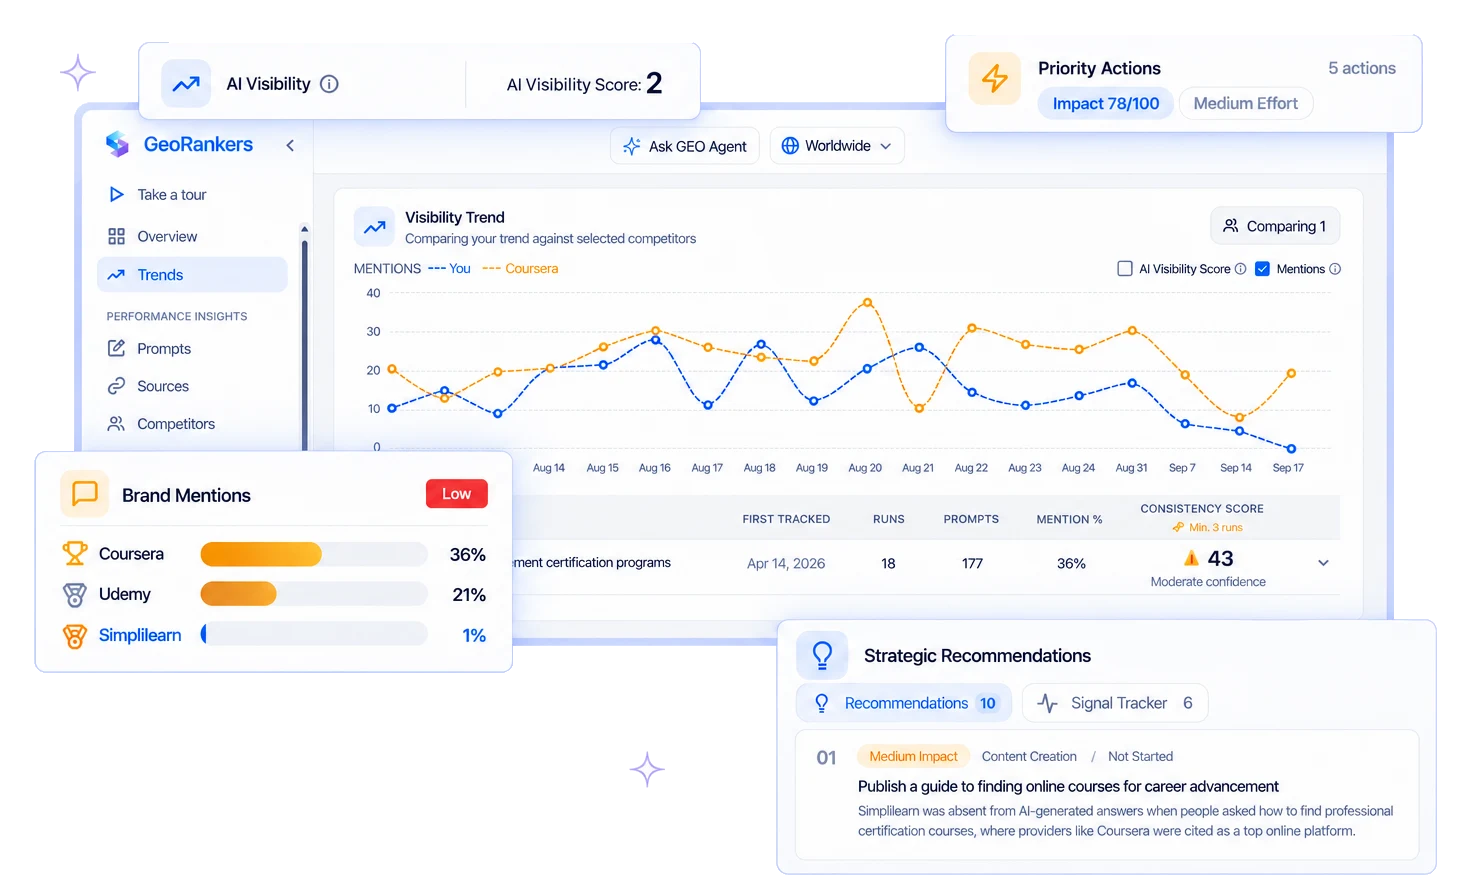
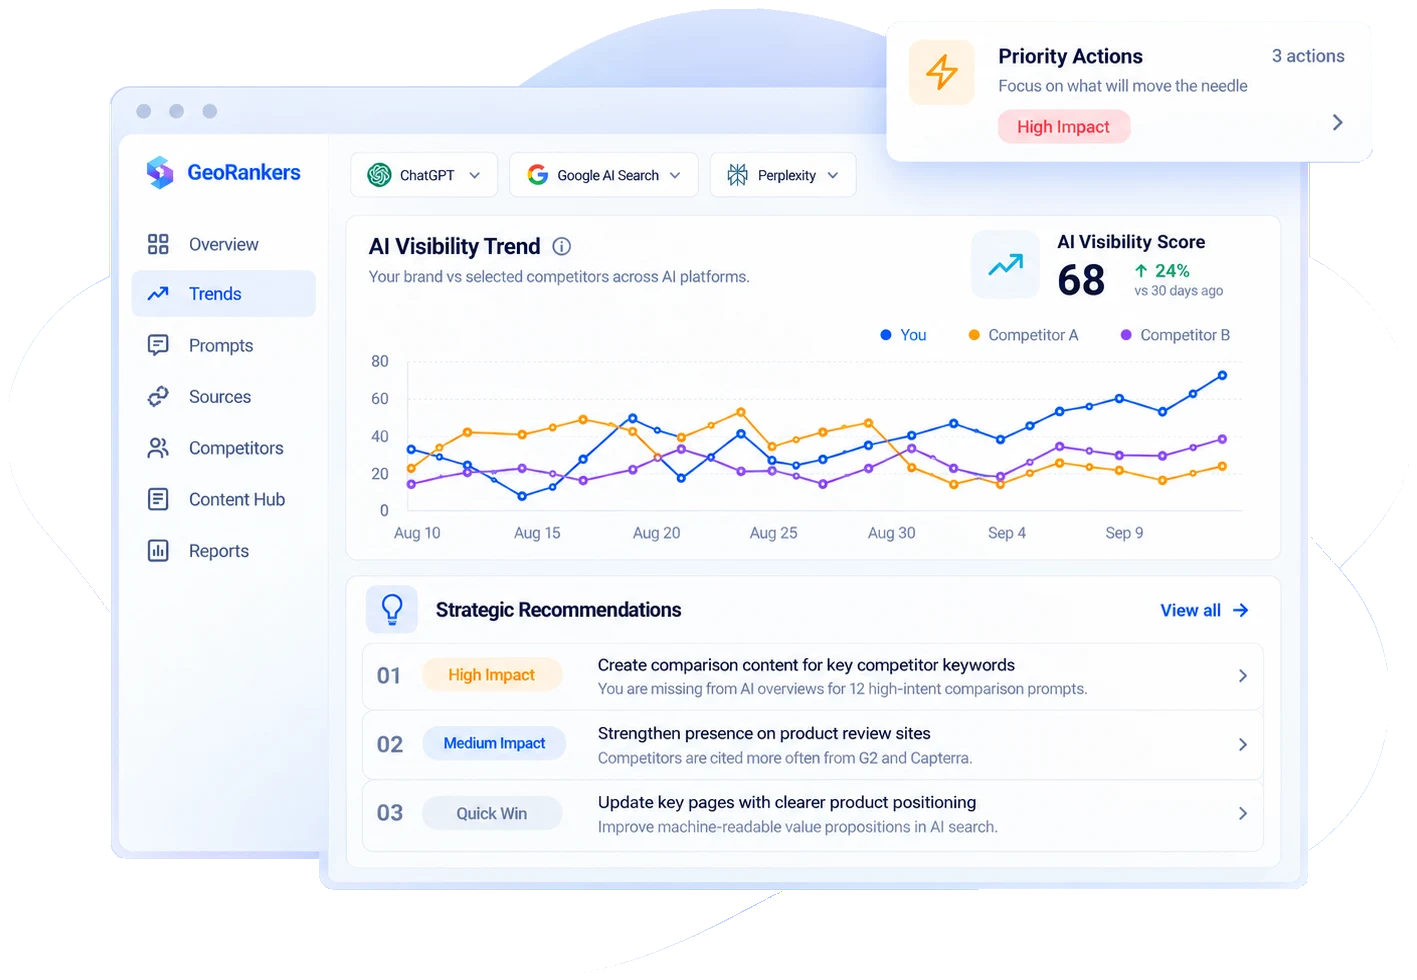
feat: swap homepage hero to the new dashboard mock
Replaces the hero visual with Hero Image 2: a browser-framed Trends view with model selectors, AI Visibility Trend and Score, Strategic Recommendations, and a floating Priority Actions card.

Processed the same way as the previous hero so it sits on the page rather than in a visible box: the baked-in backdrop is flood-filled to transparency (at a tolerance low enough to stop at the window's own pale edge rather than eating through it), cropped to the content, and saved as WebP at 92 KB.

diff --git a/client/src/pages/home.tsx b/client/src/pages/home.tsx
@@ -258,9 +258,9 @@ function HeroDashboard() {
     <div className="w-full mt-4 sm:mt-6">
       <img
         src={heroDashboardImg}
-        alt="GeoRankers dashboard showing AI Visibility Score, Brand Mentions, Visibility Trend, and Strategic Recommendations"
-        width={1458}
-        height={896}
+        alt="GeoRankers dashboard showing AI Visibility Trend across ChatGPT, Google AI Search, and Perplexity, an AI Visibility Score of 68, and prioritized Strategic Recommendations"
+        width={1417}
+        height={980}
         // @ts-ignore -- fetchPriority is valid on <img> but missing from this React/DOM type version
         fetchPriority="high"
         className="w-full h-auto"
